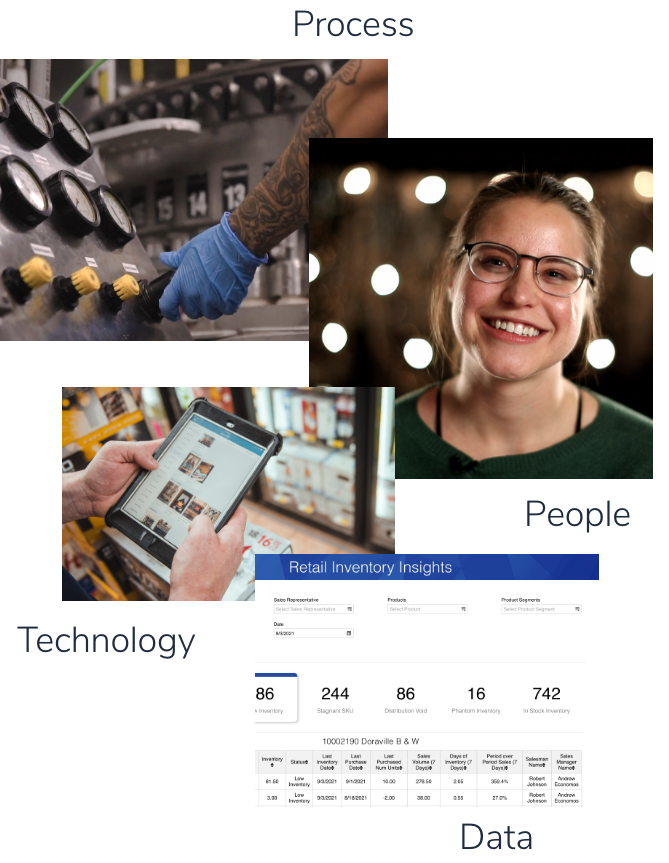
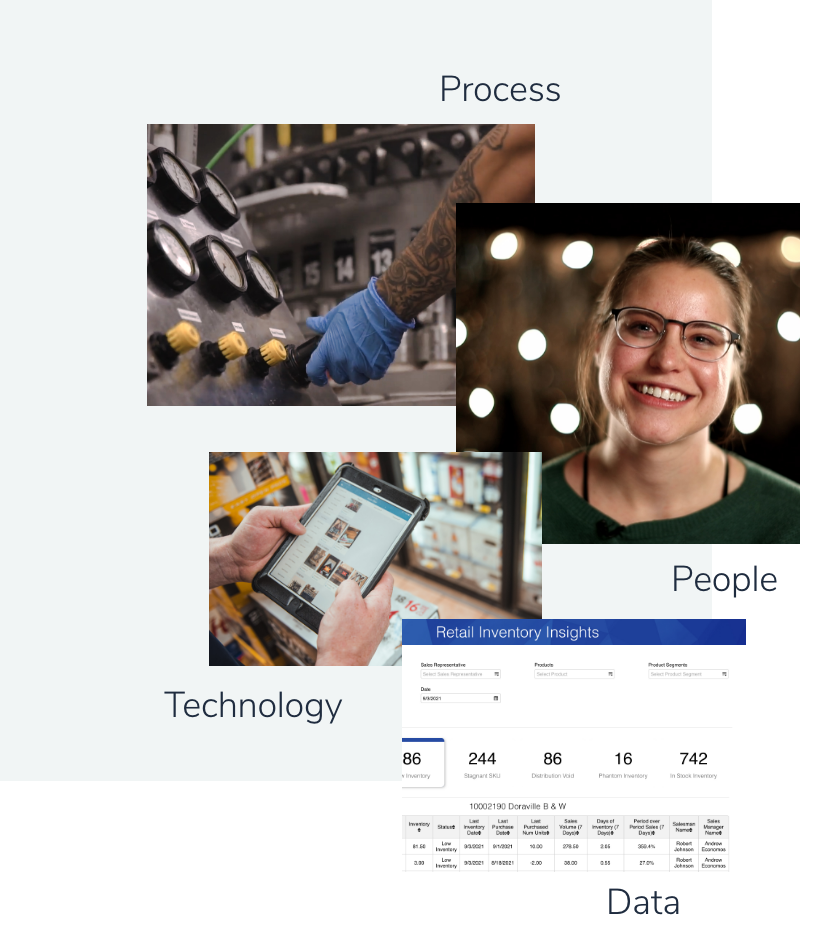
thuc tap 16/6

diff --git a/wp-content/themes/sage-theme/resources/assets/styles/config/unility/space.js b/wp-content/themes/sage-theme/resources/assets/styles/config/unility/space.js
@@ -101,7 +101,9 @@ const Space = {
   '99': '198px',
   '100': '200px',
   '290': '290px',
+  '317': '317px',
   '443': '443px',
+  '455': '455px',
   '480':'480px',
   '530':'530px',
   '114': '228px',
@@ -112,6 +114,22 @@ const Space = {
   '48': '48px',
   '125': '125px',
   '73': '73px',
+  '70%':'70%',
+  '30%': '30%',
+  '50%': '50%',
+  '4%': '4%',
+  '10%': '10%',
+  '23%': '23%',
+  '62%': '62%',
+  '15%': '15%',
+  '67%': '67%',
+  '20%': '20%',
+  '17%': '17%',
+  '55%': '55%',
+  '90%':'90%',
+
+
+
   '100vw': '100vw'
 }
 module.exports = {

diff --git a/wp-content/themes/sage-theme/resources/assets/styles/config/unility/colors.js b/wp-content/themes/sage-theme/resources/assets/styles/config/unility/colors.js
@@ -20,6 +20,8 @@ const Colors = {
     100: '#fcf7ef',
     200: '#F7F1E7',
     300: '#666666',
+    400: '#707070',
+    500: '#1F2C40',
   },
   blue: {
     100: '#1d4f91',

diff --git a/wp-content/uploads/cache/d721d57b7a4f99c5a41d3bf7aa0d6085f2df1b8a.php b/wp-content/uploads/cache/d721d57b7a4f99c5a41d3bf7aa0d6085f2df1b8a.php
@@ -1,4 +1,4 @@
-<section class="module_7">
+<section class="module_7 bg-white w-full m-auto">
     <div class="container -mt-7">
         <div class="header1 text-center py-0 px-25 m-100 -mt-32">
             <h1>Enterprise ERP Solutions for Beverage & Food Industry</h1>
@@ -6,18 +6,18 @@
 
         <div class="content text-center m-90 -mt-89">
 
-        <div class="content1 m-40">
+        <div class="content1 text-gray-400 m-40">
         <p>At Encompass, we're revolutionizing the beverage and food supply chain like no other ERP solution has before. By digitally connecting manufacturers, distributors, and retailers, our ERP SaaS solutions streamline operations, simplify decision making, and equip businesses for success in a fast-changing and unpredictable market.</p>
         </div>
 
         <div class="picture flex flex-grow flex-wrap ml-125 w-full">
         <img class="-ml-35" src="<?= \App\asset_path('images/hinh_6.png'); ?>" alt="picture">
 
-        <img class="ml-23" src="<?= \App\asset_path('images/hinh_7.png'); ?>" alt="picture">
+        <img class="ml-23 h-22" src="<?= \App\asset_path('images/hinh_7.png'); ?>" alt="picture">
 
         <img class="ml-23" src="<?= \App\asset_path('images/hinh_8.png'); ?>" alt="picture">
 
-        <img class="ml-23" src="<?= \App\asset_path('images/hinh_9.png'); ?>" alt="picture">
+        <img class="ml-23 h-22" src="<?= \App\asset_path('images/hinh_9.png'); ?>" alt="picture">
 
         <img class="ml-25" src="<?= \App\asset_path('images/hinh_10.png'); ?>" alt="picture">
         </div>
@@ -37,27 +37,29 @@
            
         </div>
 
-        <div class="duoi2 flex flex-row ">
-            <div class="content2 mr-30 -ml-73">
+        <div class="duoi2 -m-7 ml-10 text-gray-500 flex flex-row ">
+            <div class="content2 mr-30 -ml-45 text-center">
                 <p>Over 400 breweries, distilleries, and cideries use Encompass' Orchestra Cloud to work from a single source of truth for operations, data, and decision making. Streamlining the business in this way provides benefits that extend to tier-to-tier automation, process transparency, and predictive forecasting.</p>
             </div>
-            <div class="content3 mr-28 ml-5">
+            <div class="content3 mr-10 ml-5">
                 <p>Encompass Cloud powered by the Encompass Platform is specifically built for the beverage and food distribution industry. Encompass Cloud integrates warehouse management, sales execution, logistics, warehouse automation, and retailer ordering tools in a way that makes the overall business function smoothly, predictably, efficiently.</p>
             </div>
-            <div class="content4 ml-25 -mr-20">
+            <div class="content4 ml-30 -mr-12">
                 <p>Our Retail solutions are advancing the way beverage retailers do business by optimizing commercial interactions between distributors, retailers, and consumers. This is done by consolidating online ordering and retail eCommerce websites with advanced product discovery and delivery applications. </p>
             </div>
         </div>
 
-        <div class="end flex flex-grow">
-            <div class="end1 -ml-10 mr-22">
-            EXPLORE ORCHESTRA
+        <div class="end -m-10 mt-6 text-red-100 flex flex-grow">
+            <div class="end1 -ml-10 mr-15">
+            EXPLORE ORCHESTRA <span class="icomoon icon-chevron-right"></span>
             </div>
+
             <div class="end2 mr-30 ml-70">
-            EXPLORE ENCOMPASS CLOUD
+            EXPLORE ENCOMPASS CLOUD<span class="icomoon icon-chevron-right"></span>
             </div>
-            <div class="end3 ml-30">
-            EXPLORE RETAIL SOLUTIONS
+
+            <div class="end3 ml-45">
+            EXPLORE RETAIL SOLUTIONS<span class="icomoon icon-chevron-right"></span>
             </div>
         </div>
  

diff --git a/wp-content/themes/sage-theme/resources/views/template-parts/page/module-module_7.blade.php b/wp-content/themes/sage-theme/resources/views/template-parts/page/module-module_7.blade.php
@@ -1,4 +1,4 @@
-<section class="module_7">
+<section class="module_7 bg-white w-full m-auto">
     <div class="container -mt-7">
         <div class="header1 text-center py-0 px-25 m-100 -mt-32">
             <h1>Enterprise ERP Solutions for Beverage & Food Industry</h1>
@@ -6,18 +6,18 @@
 
         <div class="content text-center m-90 -mt-89">
 
-        <div class="content1 m-40">
+        <div class="content1 text-gray-400 m-40">
         <p>At Encompass, we're revolutionizing the beverage and food supply chain like no other ERP solution has before. By digitally connecting manufacturers, distributors, and retailers, our ERP SaaS solutions streamline operations, simplify decision making, and equip businesses for success in a fast-changing and unpredictable market.</p>
         </div>
 
         <div class="picture flex flex-grow flex-wrap ml-125 w-full">
         <img class="-ml-35" src="@asset('images/hinh_6.png')" alt="picture">
 
-        <img class="ml-23" src="@asset('images/hinh_7.png')" alt="picture">
+        <img class="ml-23 h-22" src="@asset('images/hinh_7.png')" alt="picture">
 
         <img class="ml-23" src="@asset('images/hinh_8.png')" alt="picture">
 
-        <img class="ml-23" src="@asset('images/hinh_9.png')" alt="picture">
+        <img class="ml-23 h-22" src="@asset('images/hinh_9.png')" alt="picture">
 
         <img class="ml-25" src="@asset('images/hinh_10.png')" alt="picture">
         </div>
@@ -37,27 +37,29 @@
            
         </div>
 
-        <div class="duoi2 flex flex-row ">
-            <div class="content2 mr-30 -ml-73">
+        <div class="duoi2 -m-7 ml-10 text-gray-500 flex flex-row ">
+            <div class="content2 mr-30 -ml-45 text-center">
                 <p>Over 400 breweries, distilleries, and cideries use Encompass' Orchestra Cloud to work from a single source of truth for operations, data, and decision making. Streamlining the business in this way provides benefits that extend to tier-to-tier automation, process transparency, and predictive forecasting.</p>
             </div>
-            <div class="content3 mr-28 ml-5">
+            <div class="content3 mr-10 ml-5">
                 <p>Encompass Cloud powered by the Encompass Platform is specifically built for the beverage and food distribution industry. Encompass Cloud integrates warehouse management, sales execution, logistics, warehouse automation, and retailer ordering tools in a way that makes the overall business function smoothly, predictably, efficiently.</p>
             </div>
-            <div class="content4 ml-25 -mr-20">
+            <div class="content4 ml-30 -mr-12">
                 <p>Our Retail solutions are advancing the way beverage retailers do business by optimizing commercial interactions between distributors, retailers, and consumers. This is done by consolidating online ordering and retail eCommerce websites with advanced product discovery and delivery applications. </p>
             </div>
         </div>
 
-        <div class="end flex flex-grow">
-            <div class="end1 -ml-10 mr-22">
-            EXPLORE ORCHESTRA
+        <div class="end -m-10 mt-6 text-red-100 flex flex-grow">
+            <div class="end1 -ml-10 mr-15">
+            EXPLORE ORCHESTRA <span class="icomoon icon-chevron-right"></span>
             </div>
+
             <div class="end2 mr-30 ml-70">
-            EXPLORE ENCOMPASS CLOUD
+            EXPLORE ENCOMPASS CLOUD<span class="icomoon icon-chevron-right"></span>
             </div>
-            <div class="end3 ml-30">
-            EXPLORE RETAIL SOLUTIONS
+
+            <div class="end3 ml-45">
+            EXPLORE RETAIL SOLUTIONS<span class="icomoon icon-chevron-right"></span>
             </div>
         </div>
  

diff --git a/wp-content/uploads/cache/2a5a80f0bc9fa24898b1979e3e2e76ccaf70e186.php b/wp-content/uploads/cache/2a5a80f0bc9fa24898b1979e3e2e76ccaf70e186.php
@@ -1,0 +1,24 @@
+<section class="module8">
+<img class="z-2" src="<?= \App\asset_path('images/hinh_15.png'); ?>" alt="picture">
+    <div class="container">
+        <div class="header">
+        <img class="z-1 -mt-50% " src="<?= \App\asset_path('images/hinh_12.png'); ?>" alt="picture">
+        </div>
+
+        <div class="content">
+            <div class="header1 w-30% ml-10% text-white">
+                <h1>Unlock the Power of Connection</h1>
+            </div>
+            <div class="content1 w-23% ml-10% text-white">
+            <p>Connect & Grow Your Business with the Power of the Encompass Platform</p>
+            </div>
+            <div class="piture">
+            <img class="z-2 w-1/2 ml-62% -mt-15%" src="<?= \App\asset_path('images/hinh_11.png'); ?>" alt="picture">
+            <img class="z-1 w-17% ml-67% -mt-20% " src="<?= \App\asset_path('images/hinh_13.png'); ?>" alt="picture">
+            </div>
+            <a href="#" class=" btn rounded-full text-center ml-10% -mt-55% py-7 px-28 text-white bg-red-100">
+                 ABOUT US
+                </a>
+        </div>
+    </div>
+</section>

diff --git a/wp-content/themes/sage-theme/resources/views/template-parts/page/module-module_8.blade.php b/wp-content/themes/sage-theme/resources/views/template-parts/page/module-module_8.blade.php
@@ -1,0 +1,24 @@
+<section class="module8">
+<img class="z-2" src="@asset('images/hinh_15.png')" alt="picture">
+    <div class="container">
+        <div class="header">
+        <img class="z-1 -mt-50% " src="@asset('images/hinh_12.png')" alt="picture">
+        </div>
+
+        <div class="content">
+            <div class="header1 w-30% ml-10% text-white">
+                <h1>Unlock the Power of Connection</h1>
+            </div>
+            <div class="content1 w-23% ml-10% text-white">
+            <p>Connect & Grow Your Business with the Power of the Encompass Platform</p>
+            </div>
+            <div class="piture">
+            <img class="z-2 w-1/2 ml-62% -mt-15%" src="@asset('images/hinh_11.png')" alt="picture">
+            <img class="z-1 w-17% ml-67% -mt-20% " src="@asset('images/hinh_13.png')" alt="picture">
+            </div>
+            <a href="#" class=" btn rounded-full text-center ml-10% -mt-55% py-7 px-28 text-white bg-red-100">
+                 ABOUT US
+                </a>
+        </div>
+    </div>
+</section>

diff --git a/wp-content/uploads/cache/dd2ebc9b1107aa74ba4c3182fb50e65633d2493c.php b/wp-content/uploads/cache/dd2ebc9b1107aa74ba4c3182fb50e65633d2493c.php
@@ -1,4 +1,4 @@
-<selection class="module-riv">
+<section class="module-riv bg-white">
     <div class="container">
         <div class="flex flex-row flex-wrap w-full items-center	">
             <div class="picture h-auto -ml-38 p-0 w-1/2">
@@ -18,4 +18,4 @@
             </div>
         </div>
     </div>
-</selection>
+</section>

diff --git a/wp-content/themes/sage-theme/resources/views/template-parts/page/module-riv.blade.php b/wp-content/themes/sage-theme/resources/views/template-parts/page/module-riv.blade.php
@@ -1,4 +1,4 @@
-<section class="module-riv">
+<section class="module-riv bg-white">
     <div class="container">
         <div class="flex flex-row flex-wrap w-full items-center	">
             <div class="picture h-auto -ml-38 p-0 w-1/2">

diff --git a/wp-content/themes/sage-theme/resources/views/template-parts/page/module-hoai_my.blade.php b/wp-content/themes/sage-theme/resources/views/template-parts/page/module-hoai_my.blade.php
@@ -72,10 +72,3 @@
         </div>
     </div>
 </section>
-
-
-    <!-- height: 228px;
-    background-position: center;
-    background-size: cover;
-    border-top-left-radius: 20px;
-    border-top-right-radius: 20px; -->

diff --git a/wp-content/uploads/cache/f784b9f6ef05c2cfde2a17aa66a432a8e44c09df.php b/wp-content/uploads/cache/f784b9f6ef05c2cfde2a17aa66a432a8e44c09df.php
@@ -72,10 +72,3 @@
         </div>
     </div>
 </section>
-
-
-    <!-- height: 228px;
-    background-position: center;
-    background-size: cover;
-    border-top-left-radius: 20px;
-    border-top-right-radius: 20px; -->

diff --git a/wp-content/themes/sage-theme/app/Controllers/Modules/Module8.php b/wp-content/themes/sage-theme/app/Controllers/Modules/Module8.php
@@ -1,0 +1,13 @@
+<?php
+
+namespace App\Controllers\Modules;
+
+class Module8
+{
+    public function dataModule($module)
+    {
+        return (object) [
+            'module' => $module
+        ];
+    }
+}

diff --git a/wp-content/themes/sage-theme/app/Controllers/Modules/Module9.php b/wp-content/themes/sage-theme/app/Controllers/Modules/Module9.php
@@ -1,0 +1,13 @@
+<?php
+
+namespace App\Controllers\Modules;
+
+class Module9
+{
+    public function dataModule($module)
+    {
+        return (object) [
+            'module' => $module
+        ];
+    }
+}
